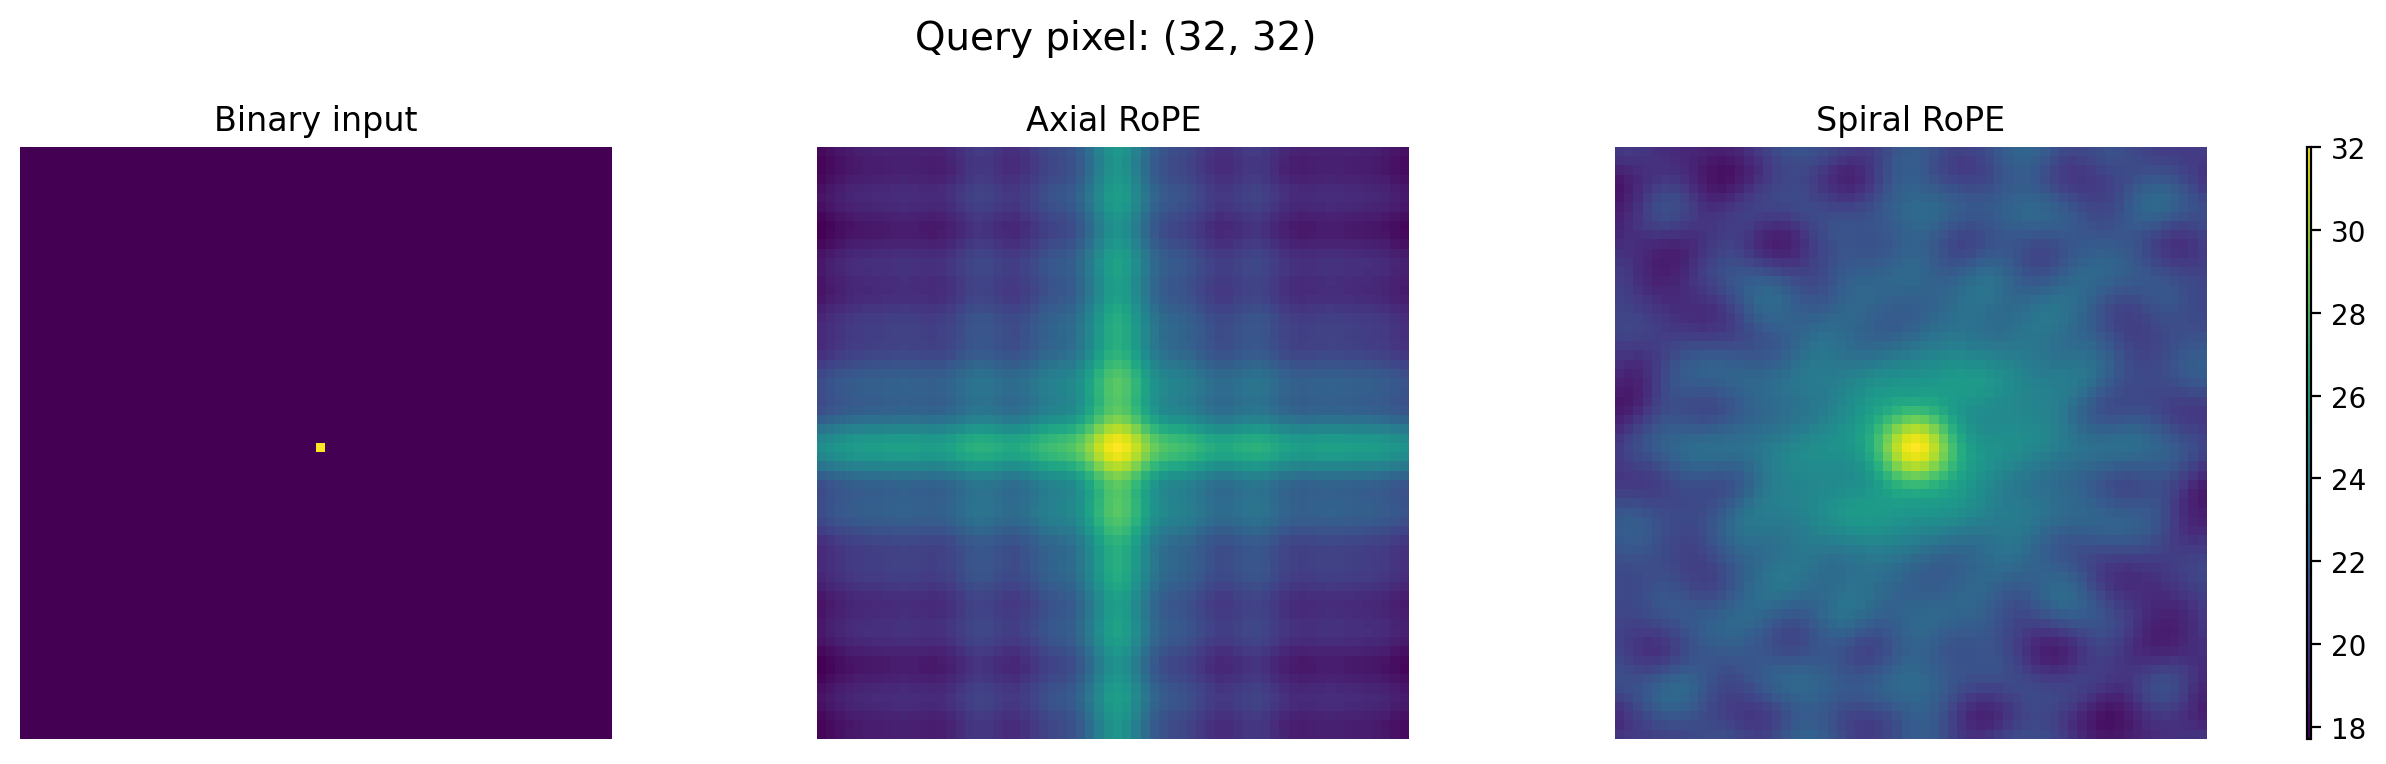
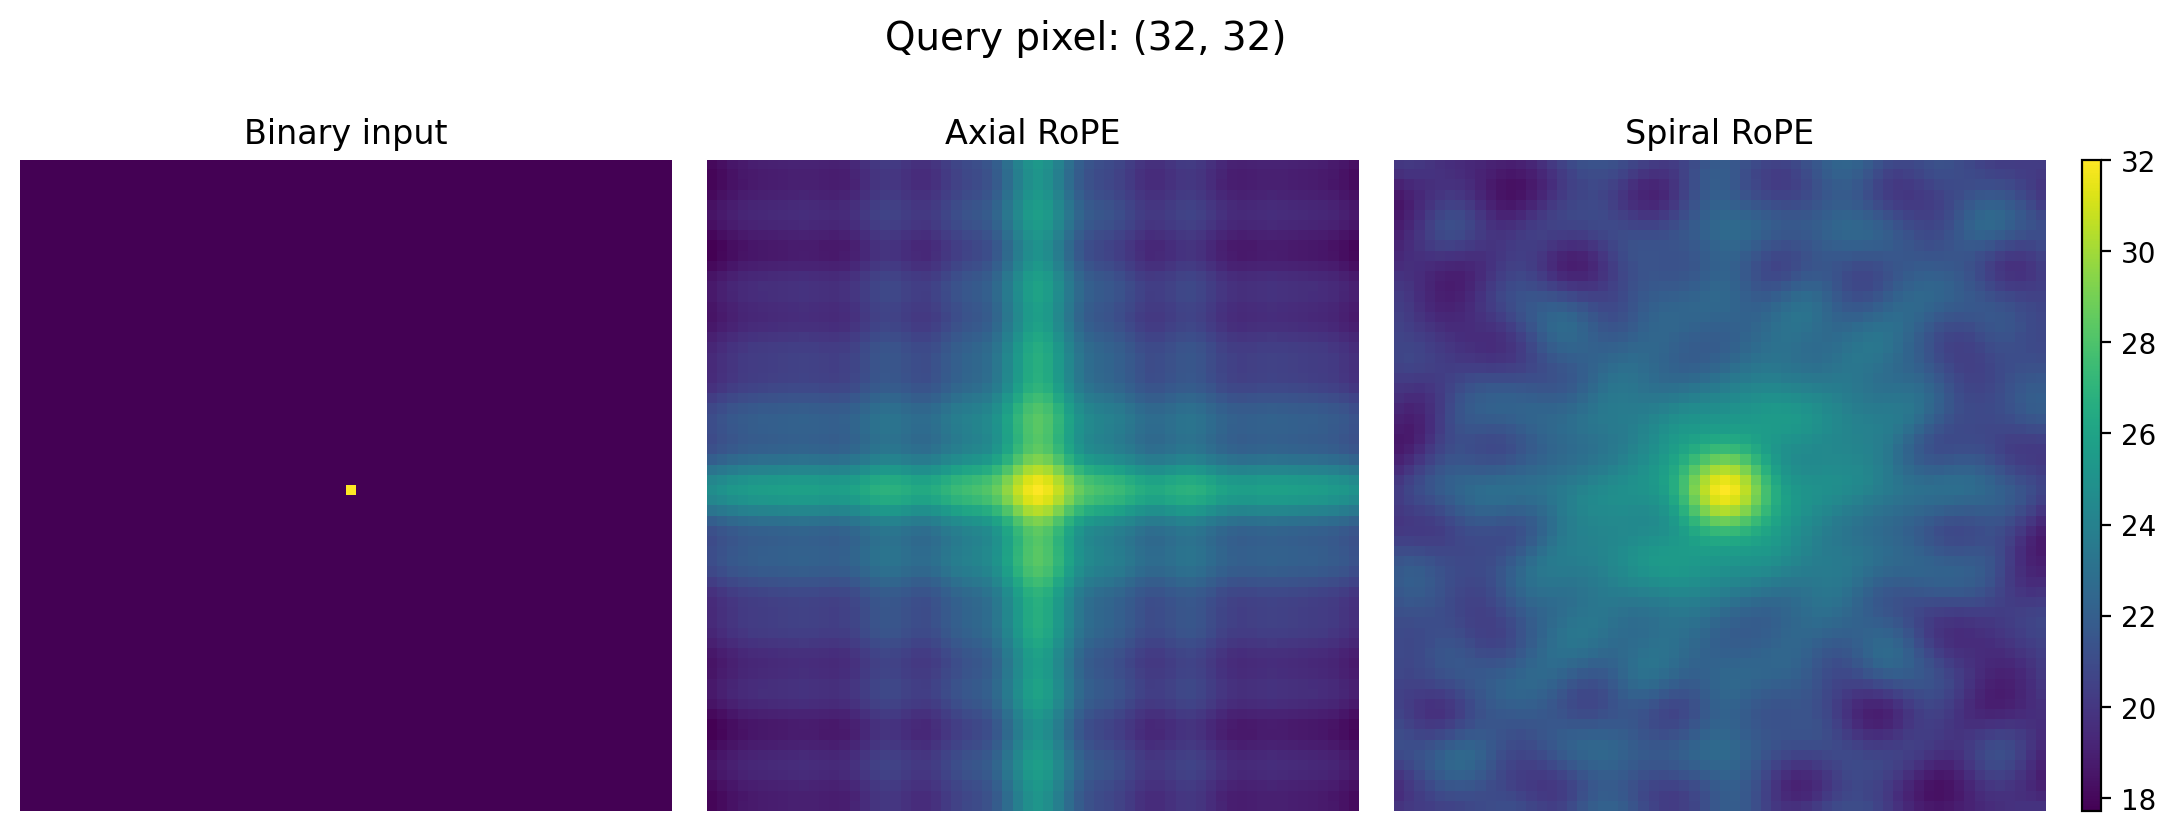
.

Changed region(s): [[0.0312, 0.1204, 1.0, 0.9935], [0.375, 0.0301, 0.5938, 0.0903], [0.0938, 0.1204, 0.2188, 0.1806]]

diff --git a/rope_attention_single_color.py b/rope_attention_single_color.py
@@ -10,6 +10,7 @@ matplotlib.use("Agg")
 
 import matplotlib.pyplot as plt
 from matplotlib.colors import Normalize
+from mpl_toolkits.axes_grid1 import ImageGrid
 import numpy as np
 
 
@@ -177,14 +178,18 @@ def plot_results(
     heat_max = max(float(axial_logits.max()), float(spiral_logits.max()))
     heat_norm = Normalize(vmin=heat_min, vmax=heat_max)
 
-    fig = plt.figure(figsize=(13, 4))
-    gs = fig.add_gridspec(1, 6, width_ratios=[1, 0.005, 1, 0.005, 1, 0.005])
-    axes = [
-        fig.add_subplot(gs[0, 0]),
-        fig.add_subplot(gs[0, 2]),
-        fig.add_subplot(gs[0, 4]),
-        fig.add_subplot(gs[0, 5]),
-    ]
+    fig = plt.figure(figsize=(12.4, 4.4))
+    grid = ImageGrid(
+        fig,
+        111,
+        nrows_ncols=(1, 3),
+        axes_pad=0.18,
+        cbar_location="right",
+        cbar_mode="single",
+        cbar_size="3%",
+        cbar_pad=0.18,
+    )
+    axes = list(grid)
     fig.suptitle(f"Query pixel: ({query_x}, {query_y})", fontsize=14)
 
     axes[0].imshow(image, cmap="viridis", vmin=0.0, vmax=100.0, interpolation="nearest")
@@ -198,9 +203,9 @@ def plot_results(
     im02 = axes[2].imshow(spiral_logits, cmap="viridis", norm=heat_norm)
     axes[2].set_title("Spiral RoPE")
     axes[2].axis("off")
-    fig.colorbar(im02, cax=axes[3])
+    grid.cbar_axes[0].colorbar(im02)
 
-    fig.subplots_adjust(left=0.04, right=0.96, top=0.82, bottom=0.08, wspace=0.0)
+    fig.subplots_adjust(left=0.04, right=0.94, top=0.82, bottom=0.08)
     output_path.parent.mkdir(parents=True, exist_ok=True)
     fig.savefig(output_path, dpi=200, bbox_inches="tight")
     plt.close(fig)
